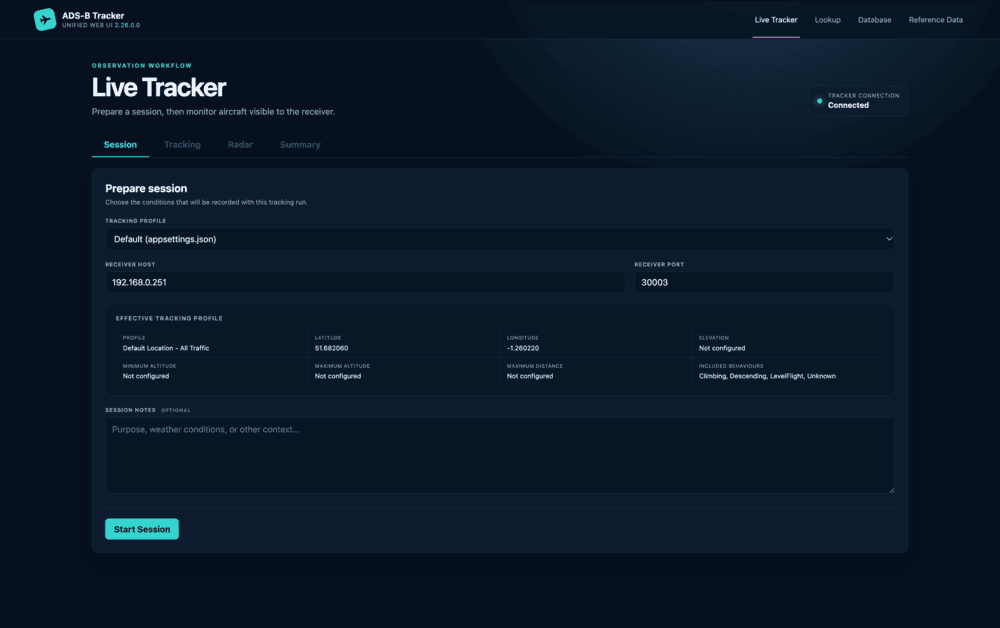
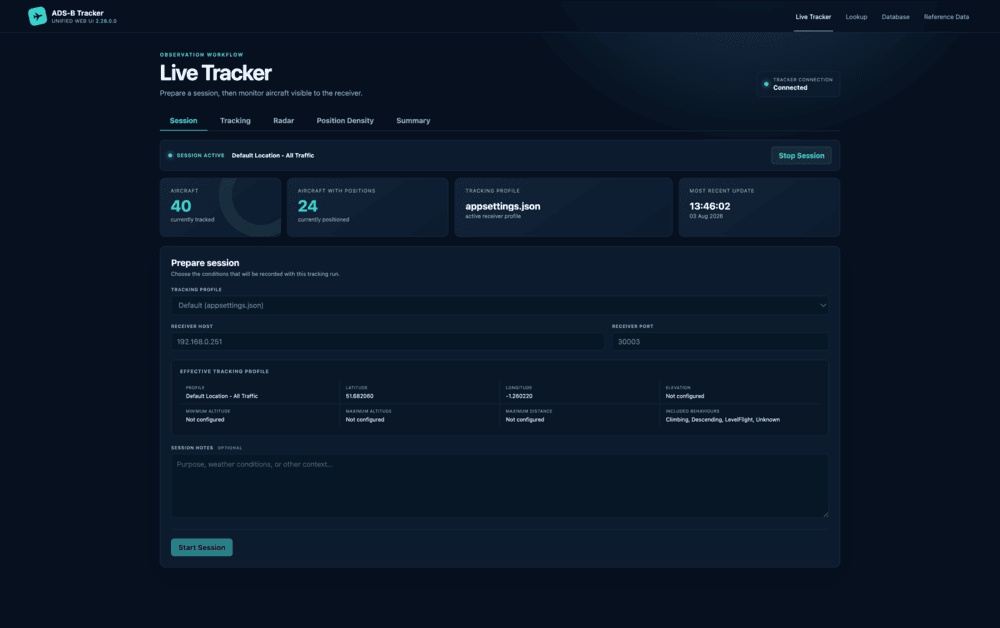
Updated the version number and documentation

diff --git a/README.md b/README.md
@@ -25,7 +25,7 @@ The project currently supports:
 
 - **Session-based aircraft observation** from a BaseStation-compatible TCP message feed
 - **Observation-session preparation** with receiver host and port, tracking-profile selection and optional contextual notes
-- **Live aircraft tracking and receiver-centred radar** within the active observation session
+- **Live aircraft tracking, receiver-centred radar and session position-density visualisation** within the active observation session
 - **Read-only session summaries** covering tracking activity, identification coverage and session highlights
 - **Configurable tracking profiles** based on receiver location, altitude, distance and aircraft behaviour
 - **Local SQLite persistence** of observation sessions, aircraft records and optional position histories
@@ -119,13 +119,14 @@ The interface is organised around the natural workflow of an aircraft observer:
 
 ### Observation Workflow
 
-The Live Tracker brings the active observation workflow together in four tabs:
+The Live Tracker brings the active observation workflow together in five tabs:
 
-> Session &rarr; Tracking &harr; Radar &rarr; Summary
+> Session &rarr; Tracking &harr; Radar &rarr; Position Density &rarr; Summary
 
 - **Session** — set the receiver host and port, select a tracking profile, review the effective receiver and tracking limits, add optional notes, and start the session
 - **Tracking** — monitor the live aircraft collection, inspect current telemetry, and move directly to Lookup or historical records
-- **Radar** — view positioned aircraft by range and bearing from the receiver; this tab is available only while a session is active
+- **Radar** — view currently positioned aircraft by range and bearing from the receiver; this tab is available only while a session is active
+- **Position Density** — view the accumulated geographical distribution of recorded aircraft positions during the current session, with denser areas highlighted spatially
 - **Summary** — review the persisted session context, tracking activity, identification coverage, and notable observations
 
 Each session records the receiver host and port, a snapshot of the effective tracking profile, and the aircraft records created during that run. Receiver details initially default to the values configured in `appsettings` and then retain the last-used values until Tracker Hub is restarted. Session parameters become fixed when tracking starts; after the session has stopped, its notes can be updated through the Database Session Editor. When tracking stops, outstanding observations are persisted before the completed summary is displayed.
